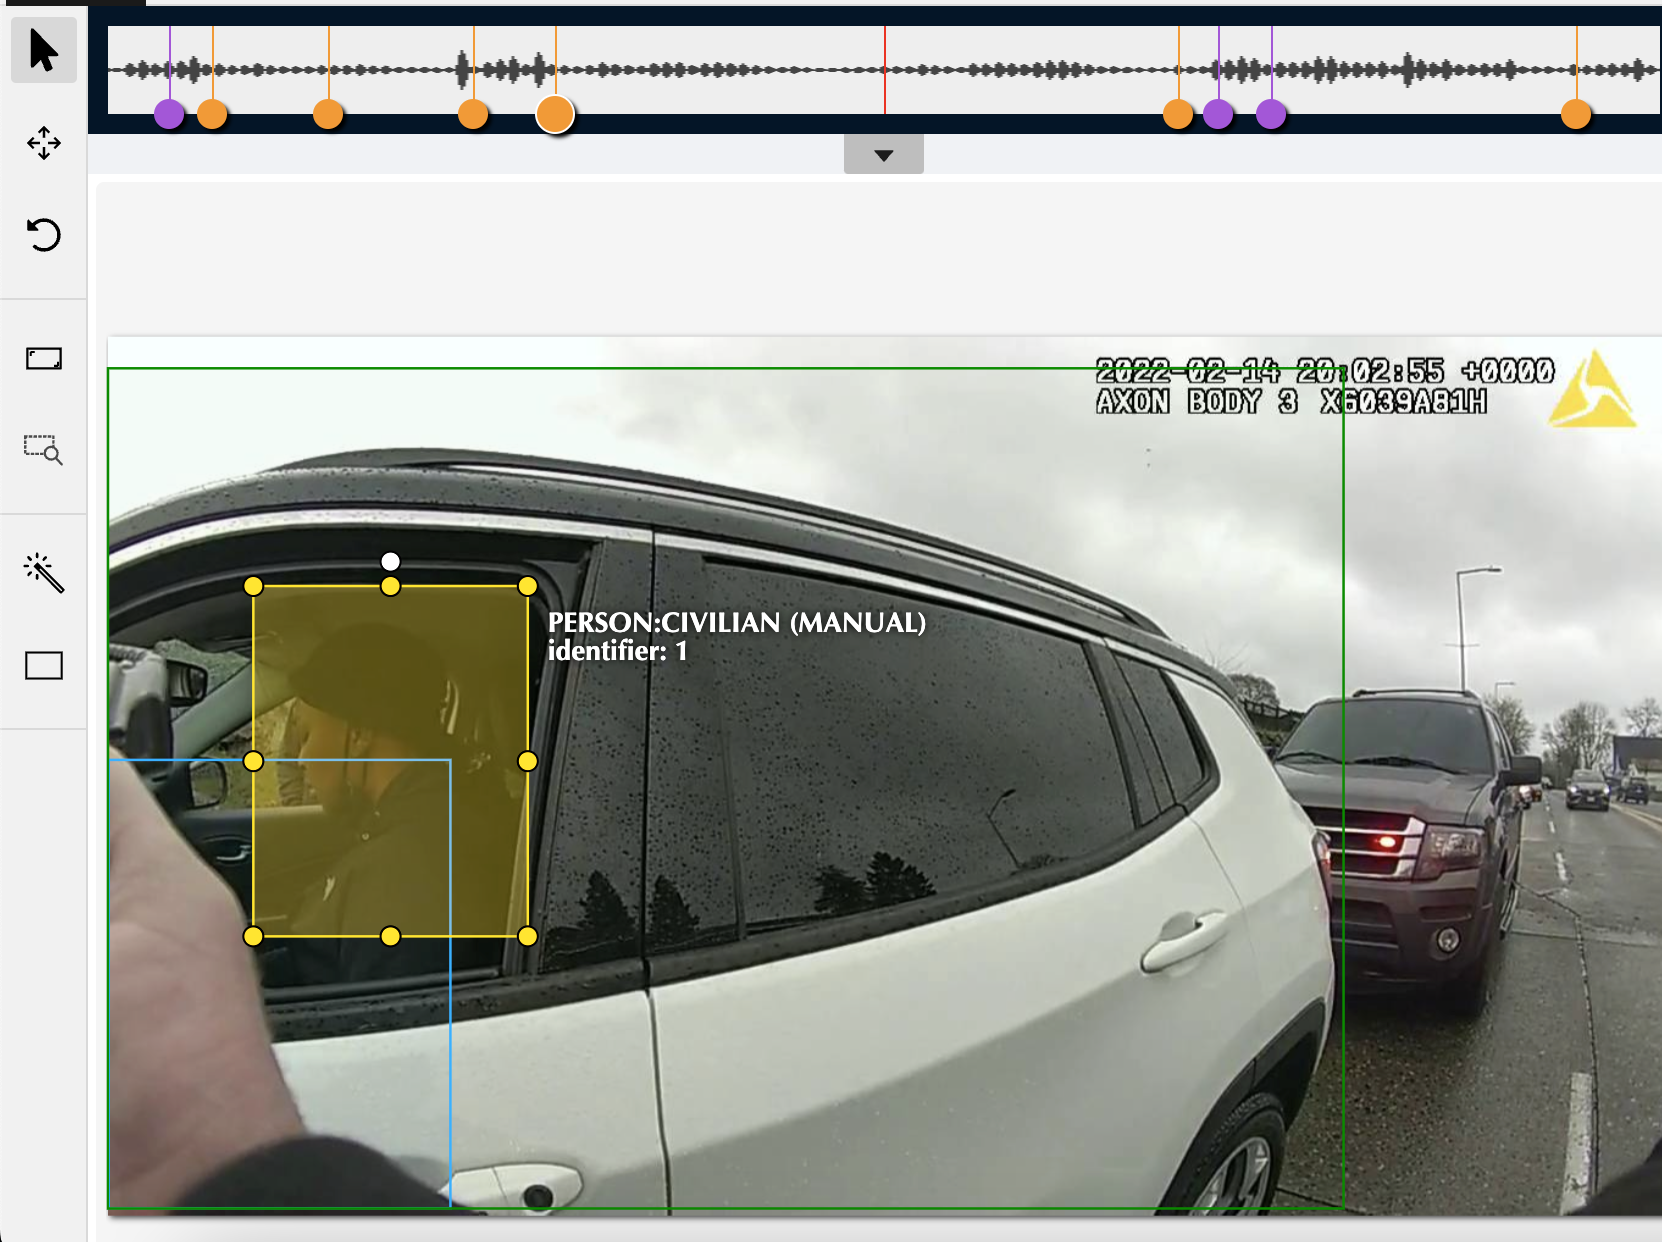
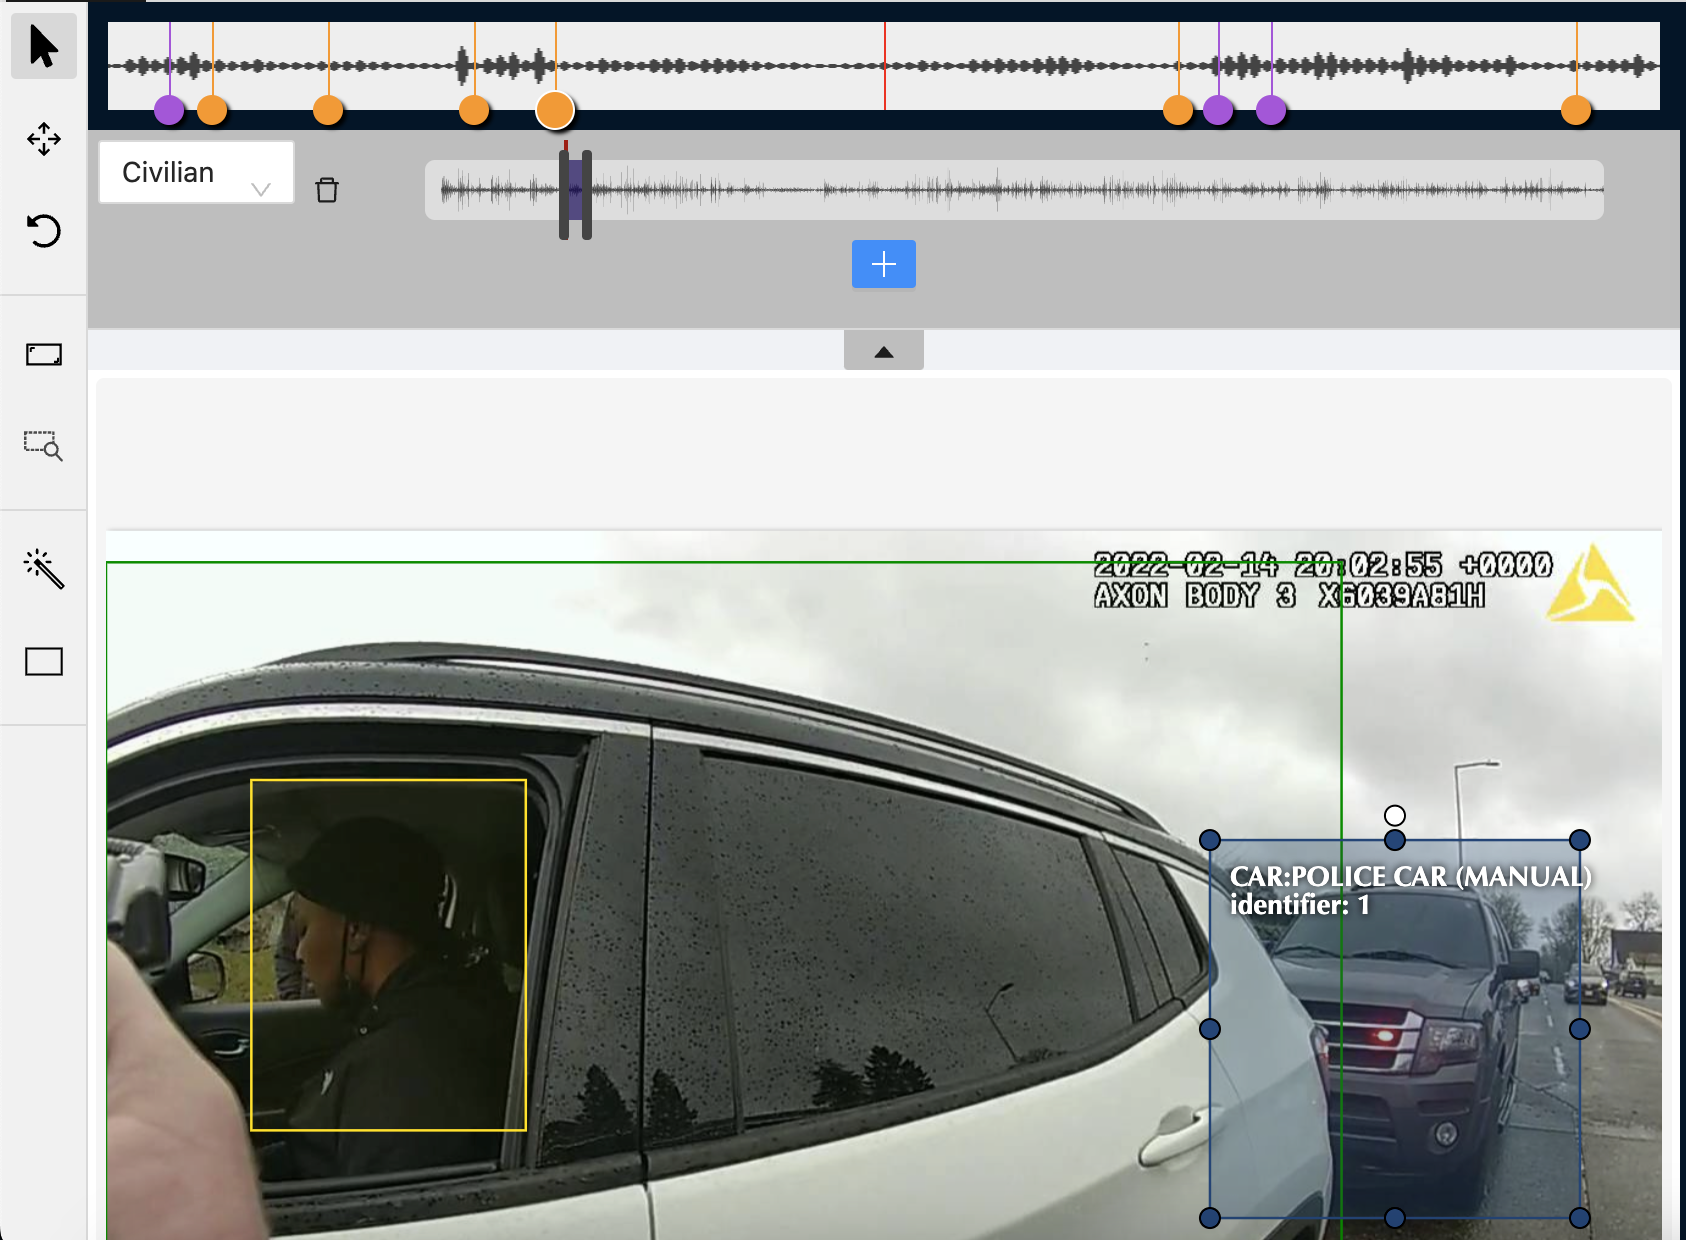
chore: update README

diff --git a/README.md b/README.md
@@ -8,6 +8,9 @@ We introduce an open-source platform for annotating body-worn video (BWV) footag
 
 We have based our framework on [Computer Vision Annotation Tool (CVAT)](https://github.com/opencv/cvat), as it is an open-source annotation software that natively supports object detection and image classification. Moreover, it offers the flexibility of local hosting and the customizability inherent in open-source programs.
 
+## Demo
+https://www.youtube.com/watch?v=LyfLsG8OQug
+
 ## Prerequisites
 
 The only prerequisite for running the platform is to have Docker and Docker Compose installed on your machine. If you don't have Docker installed, you can follow the instructions [here](https://docs.docker.com/get-docker/).
@@ -52,8 +55,7 @@ export CVAT_HOST=<YOUR-HOST>
 ### Task Creation
 
 As an admin user, you can create a new task by clicking on the `+` button on the top right of the dashboard.
-
-<!-- TODO: Put the screenshot here -->
+![](./assets/create-task.png)
 
 ### Adding diarized transcripts for the task
 
@@ -63,7 +65,7 @@ For adding diarized transcripts, please follow the steps below:
 
 # Features and Workflow of the Platform
 
-<!-- TODO: Put the workflow image here -->
+![](./assets/figure2.png)
 
 ### 1. Audio/Video Annotation
 
@@ -72,13 +74,11 @@ These tags for the purposes of Police Body Worn Video could be `Police Officer`,
 
 Whenever a new person bounding box is added, the face recognition module will run automatically to match it with previous bounding boxes. It will show an alert popup if it detects a match.
 
-Users can add audio annotations by clicking the dropdown on the top of the video. This reveals the audio annotation speace, where new annotation objects can be added by clicking the `+`.
+Users can add audio annotations by clicking the dropdown on the top of the video. This reveals the audio annotation space, where new annotation objects can be added by clicking the `+`.
 
-<!-- TODO: Change this screenshot -->
 
 ![](./assets/video-annotation.png)
 
-<!-- Delete this screenshot and merge it with the upper one![](./assets/audio-annotation.png) -->
 
 ### 2. Transcript Annotation
 
@@ -90,7 +90,6 @@ Every utterance of the transcript can be edited. An annotator can:
 3. Add an utterance
 4. Delete an utterance
 
-<!-- TODO: Make this more squarish :)) -->
 <img src="./assets/transcript.png" alt="transcript" style="height:500px">
 
 Users can map the audio/video annotation tags to the transcript utterances by right-clicking the avatars on the top of each utterace and then selecting the approapriate annotation object. Once a mapping is applied for one of the utterances, the same mapping is automatically applied to all utterances of that color.
